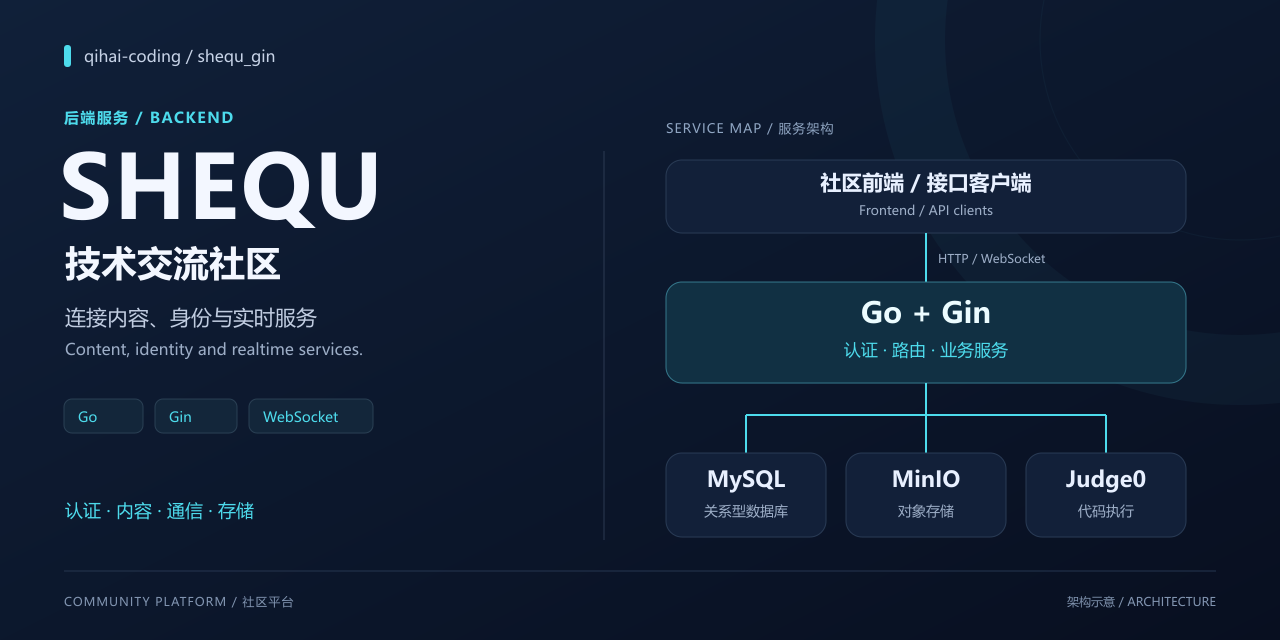
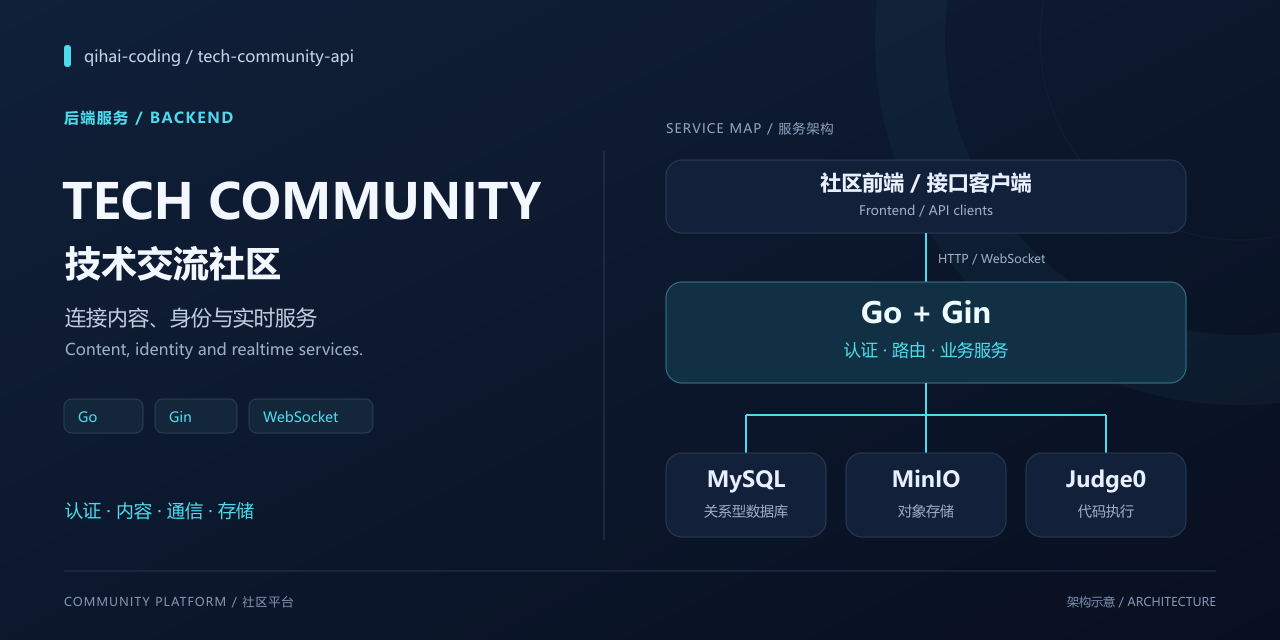
同步社区项目的专业仓库命名、展示标题与关联链接
按项目展示定位，配套仓库已分别由 shequ、shequ_gin 更名为 tech-community-web、tech-community-api。原有说明与封面仍引用旧名称，需要同步以免开发者复制旧地址或混淆前后端职责。

- 更新中英文说明中的仓库互链、克隆命令、进入目录命令、问题反馈地址及架构图标识。
- 统一主页标题与封面品牌为 Tech Community（技术交流社区），同步封面中的仓库路径。
- 重新导出 1280×640 位图并保留可编辑矢量源图。

本次仅调整展示文档与图片；业务功能、应用内部包名、依赖、配置和默认分支均未改动。
已验证两种语言的启动命令一致、链接与目录锚点完整、GitHub 文档渲染成功，并检查封面尺寸、文字显示及暂存区空白。

Changed region(s): [[0.0312, 0.2188, 0.4375, 0.375], [0.1562, 0.0625, 0.2812, 0.125]]

diff --git a/README.en.md b/README.en.md
@@ -1,10 +1,10 @@
-[简体中文（Chinese）](README.md) · English · [Frontend repository](https://github.com/qihai-coding/shequ)
+[简体中文（Chinese）](README.md) · English · [Frontend repository](https://github.com/qihai-coding/tech-community-web)
 
-# Shequ · Technical Community Backend
+# Tech Community · Backend Service
 
-![Shequ backend architecture: clients connect through Go and Gin to MySQL, MinIO and the Judge0 code execution service](docs/assets/cover.png)
+![Tech Community backend architecture: clients connect through Go and Gin to MySQL, MinIO and the Judge0 code execution service](docs/assets/cover.png)
 
-A Go and Gin backend for community authentication, content management, realtime chat, private messages, resource storage and code execution. Designed to work with the [shequ frontend](https://github.com/qihai-coding/shequ).
+A Go and Gin backend for community authentication, content management, realtime chat, private messages, resource storage and code execution. Designed to work with the [tech-community-web frontend](https://github.com/qihai-coding/tech-community-web).
 
 [Features](#features) · [Architecture](#architecture) · [Quick start](#quick-start) · [API entry points](#api-entry-points) · [Runtime notes](#runtime-notes)
 
@@ -35,7 +35,7 @@ Dependency versions are listed in [go.mod](go.mod). Caches and online connection
 
 ```mermaid
 flowchart LR
-    Client["shequ frontend / API client"] -->|"HTTP / WebSocket"| Routes["Gin routes and middleware"]
+    Client["tech-community-web frontend / API client"] -->|"HTTP / WebSocket"| Routes["Gin routes and middleware"]
     Routes --> Handlers["Request handlers"]
     Handlers --> Services["Services and repositories"]
     Services --> DB["MySQL · Database"]
@@ -57,8 +57,8 @@ Startup connects to the database, initializes storage buckets, assembles service
 ### 2. Fetch the code and initialize the database
 
 ```sh
-git clone https://github.com/qihai-coding/shequ_gin.git
-cd shequ_gin
+git clone https://github.com/qihai-coding/tech-community-api.git
+cd tech-community-api
 go mod download
 mysql -h 127.0.0.1 -u root -p -e "source sql/init_all_tables.sql"
 ```
@@ -112,7 +112,7 @@ curl http://127.0.0.1:3001/health
 
 A successful database check returns `{"status":"healthy"}`. You can also open that URL in a browser. A successful `/health` response does not validate object storage transfers, every business endpoint or code execution.
 
-Then follow the [frontend setup instructions](https://github.com/qihai-coding/shequ/blob/main/README.en.md#quick-start).
+Then follow the [frontend setup instructions](https://github.com/qihai-coding/tech-community-web/blob/main/README.en.md#quick-start).
 
 ## API entry points
 
@@ -158,6 +158,6 @@ docs/assets/        Repository cover and editable vector source
 
 ## Feedback and license
 
-Report problems or suggest improvements through [Issues](https://github.com/qihai-coding/shequ_gin/issues), including reproduction steps and logs with passwords, tokens and personal information removed.
+Report problems or suggest improvements through [Issues](https://github.com/qihai-coding/tech-community-api/issues), including reproduction steps and logs with passwords, tokens and personal information removed.
 
 Licensed under the [MIT License](LICENSE). Copyright `2026 qihai-coding`. Third-party dependencies retain their own licenses.

diff --git a/README.md b/README.md
@@ -1,10 +1,10 @@
-简体中文 · [English（英文）](README.en.md) · [前端仓库](https://github.com/qihai-coding/shequ)
+简体中文 · [English（英文）](README.en.md) · [前端仓库](https://github.com/qihai-coding/tech-community-web)
 
-# Shequ · 技术交流社区后端
+# Tech Community · 技术交流社区后端
 
-![Shequ 社区后端架构示意：客户端通过 Go 与 Gin 服务连接 MySQL 数据库、MinIO 对象存储和 Judge0 代码执行服务](docs/assets/cover.png)
+![Tech Community 社区后端架构示意：客户端通过 Go 与 Gin 服务连接 MySQL 数据库、MinIO 对象存储和 Judge0 代码执行服务](docs/assets/cover.png)
 
-为技术交流社区提供身份认证、内容管理、实时聊天、私信、资源存储和代码执行接口。使用 Go（编程语言）与 Gin（网络服务框架），与 [shequ 前端](https://github.com/qihai-coding/shequ)配套运行。
+为技术交流社区提供身份认证、内容管理、实时聊天、私信、资源存储和代码执行接口。使用 Go（编程语言）与 Gin（网络服务框架），与 [tech-community-web 前端](https://github.com/qihai-coding/tech-community-web)配套运行。
 
 [功能概览](#功能概览) · [系统架构](#系统架构) · [快速开始](#快速开始) · [接口入口](#接口入口) · [运行说明](#运行说明)
 
@@ -35,7 +35,7 @@
 
 ```mermaid
 flowchart LR
-    Client["shequ 前端 / 接口客户端"] -->|"HTTP / WebSocket"| Routes["Gin 路由与中间件"]
+    Client["tech-community-web 前端 / 接口客户端"] -->|"HTTP / WebSocket"| Routes["Gin 路由与中间件"]
     Routes --> Handlers["请求处理器"]
     Handlers --> Services["业务服务与数据访问"]
     Services --> DB["MySQL · 关系型数据库"]
@@ -57,8 +57,8 @@ flowchart LR
 ### 2. 获取代码与初始化数据库
 
 ```sh
-git clone https://github.com/qihai-coding/shequ_gin.git
-cd shequ_gin
+git clone https://github.com/qihai-coding/tech-community-api.git
+cd tech-community-api
 go mod download
 mysql -h 127.0.0.1 -u root -p -e "source sql/init_all_tables.sql"
 ```
@@ -112,7 +112,7 @@ curl http://127.0.0.1:3001/health
 
 数据库检查通过时返回 `{"status":"healthy"}`。也可直接在浏览器中打开该地址。`/health` 检查成功并不代表对象存储读写、所有业务接口或代码执行均已通过验证。
 
-然后按[前端启动说明](https://github.com/qihai-coding/shequ#快速开始)启动社区界面。
+然后按[前端启动说明](https://github.com/qihai-coding/tech-community-web#快速开始)启动社区界面。
 
 ## 接口入口
 
@@ -158,6 +158,6 @@ docs/assets/        仓库展示封面与可编辑矢量源图
 
 ## 反馈与许可
 
-问题与改进建议请提交至 [Issues（问题反馈）](https://github.com/qihai-coding/shequ_gin/issues)，附上复现步骤和已移除密码、令牌及个人信息的日志。
+问题与改进建议请提交至 [Issues（问题反馈）](https://github.com/qihai-coding/tech-community-api/issues)，附上复现步骤和已移除密码、令牌及个人信息的日志。
 
 本项目采用 [MIT（宽松开源许可证）](LICENSE)，版权归属为 `2026 qihai-coding`。第三方依赖仍遵循各自许可证。
